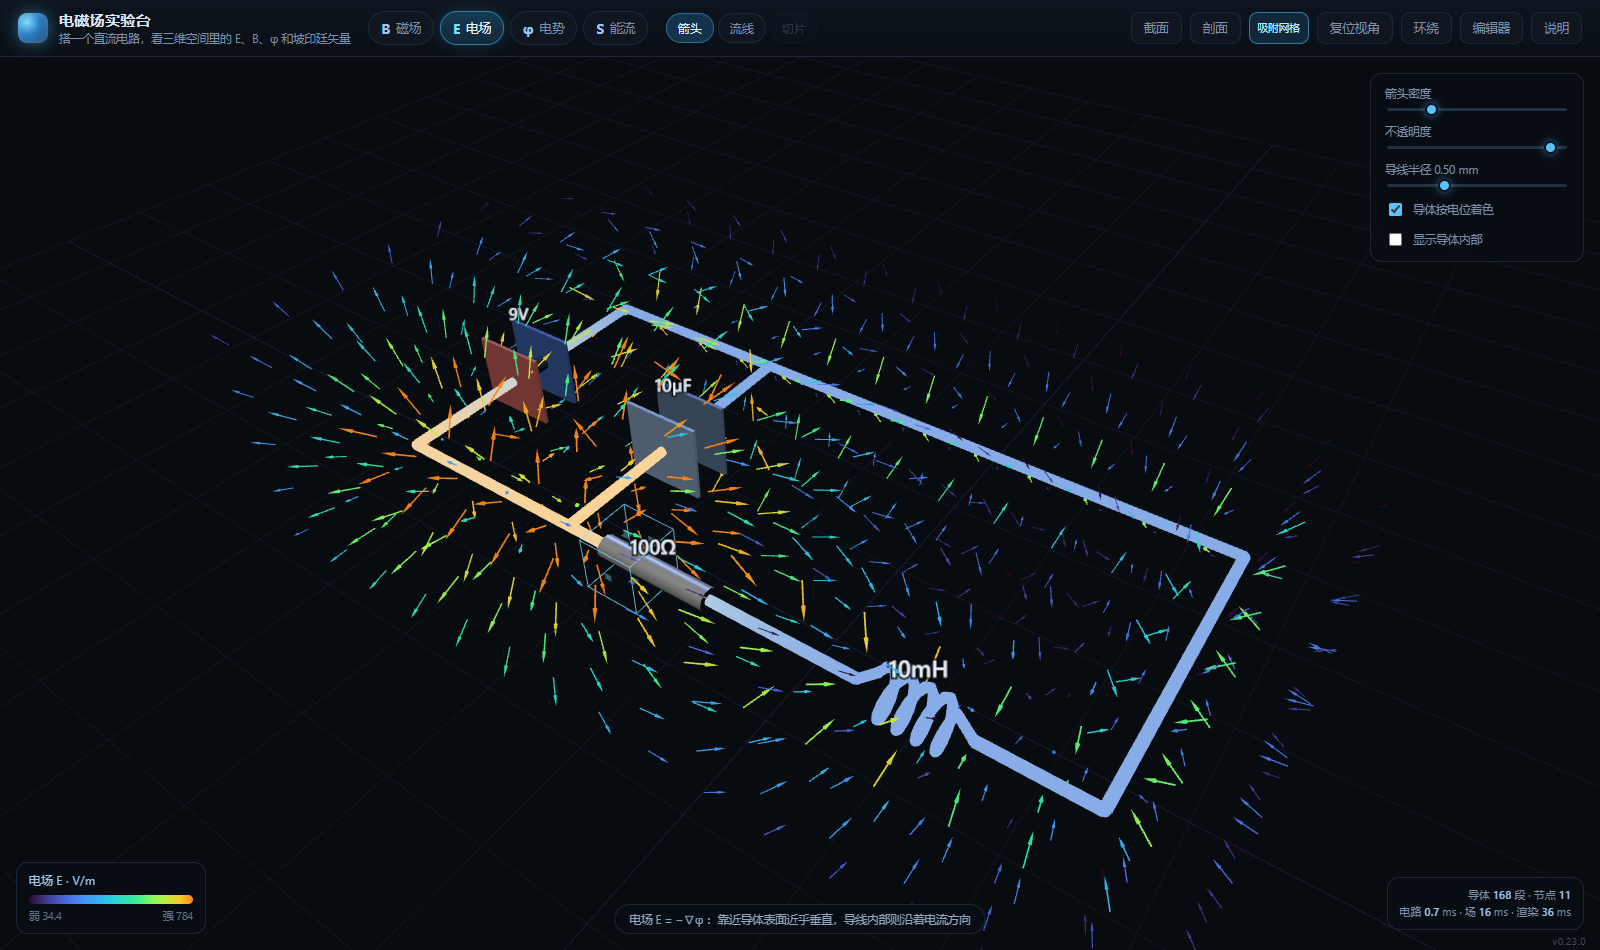
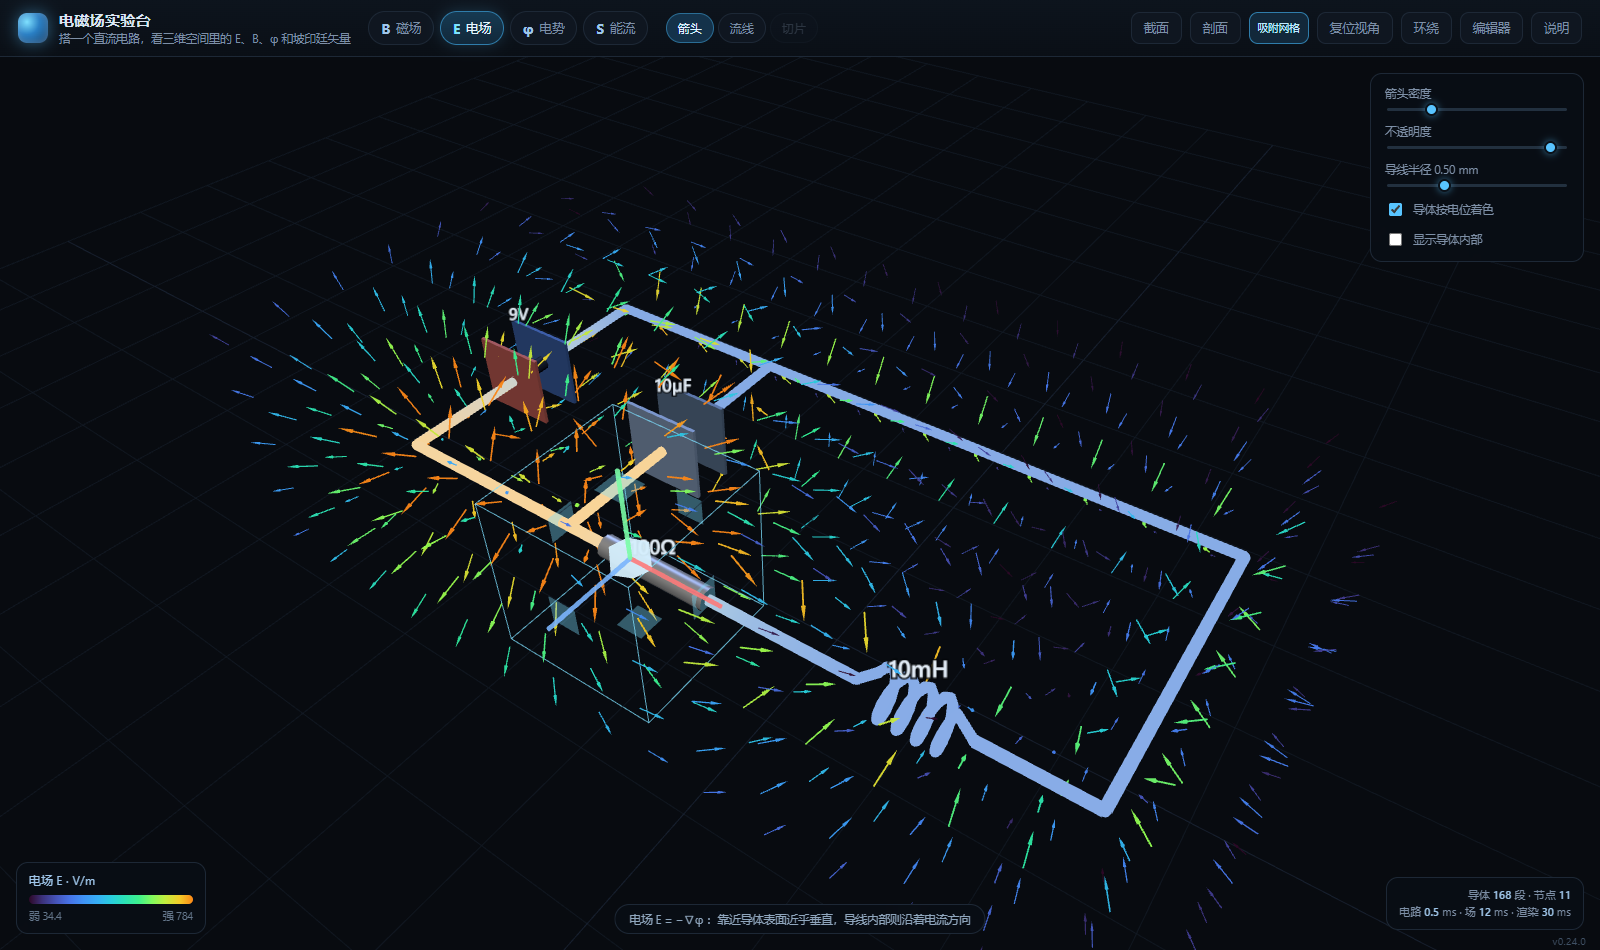
fix: 截取空间流线消失（步长/种子半径没跟盒子缩放）；电阻半径突变导致能流聚成一束；补「开发教训」文档（v0.24.0）
- viz: 积分步长改成随范围缩放（spanMin/60，限 0.003~0.075）。
  吸附后盒子只有半格多，固定 0.075 的步长只能走四五步，被 length<8 全过滤掉
- viz: 种子半径上限从 spanMin*0.42 收到 *0.22，别让种子贴着盒边、一生成就出界
- slicepane: 默认吸附的盒子从 5.5×半径 放大到 16×半径（下限 0.55 格），
  太小的话连一根导线的场结构都装不下
- slicepane/app: 体块里没有导体时在标题栏提示（拖开导线后内部箭头当然看不到）
- circuit: 电阻半径从 t=0.2/0.8 处的突跳改成 12% 长度的平滑渐变。
  突跳等于在模型里加了个尖角，能流线会聚成一束（就是「都指向电阻一端」的那张图）
- README: 新增「开发教训」一节，记录五类反复踩过的错误
- 版本 0.24.0，文档与截图更新

Changed region(s): [[0.3438, 0.4884, 0.4688, 0.6716]]

diff --git a/js/viz.js b/js/viz.js
@@ -386,6 +386,7 @@ export class FieldViz {
       box.max[0] - box.min[0], box.max[1] - box.min[1], box.max[2] - box.min[2]
     );
     const sep0 = Math.max(0.008, spanMin / (16 + density * 54));
+    const stepH = Math.max(0.003, Math.min(0.075, spanMin / 60));
     let candidates = this.makeSeeds(solver, box, Math.round(nLines * 8), field, sep0);
     if (o.interior && field !== 'phi') {
       candidates = candidates.concat(this.makeInteriorSeeds(solver, box, Math.round(nLines * 0.35)));
@@ -440,10 +441,11 @@ export class FieldViz {
 
       // 导体外面的场线不穿进导体；导体内部的场线本来就在里面，所以不设终止条件，
       // 步长也要按导体尺度缩小（导线只有 0.5mm，用 0.075 格的步长直接跨出去了）
-      // 步数上限压下来：原来一条线能跨 20 多格，横穿整个场景显乱
+      // 步长必须跟采样范围走：截取空间吸附导线后盒子只有半格多，
+      // 用 0.075 的步长一条线只走四五步就出界，会被下面的 length 判定全过滤掉
       const line = inside
         ? integrate(fn, seed, box, (sd.h || 0.004), 600, null)
-        : integrate(fn, seed, box, 0.075, field === 'E' ? 260 : 190, solver);
+        : integrate(fn, seed, box, stepH, field === 'E' ? 260 : 190, solver);
       if (line.length < (inside ? 5 : 8)) continue;
 
       // 再看整条线：如果大半程都贴着已有线，就丢掉（只靠种子点判不够）
@@ -615,7 +617,8 @@ export class FieldViz {
       box.max[1] - box.min[1],
       box.max[2] - box.min[2]
     );
-    const rMax = Math.max(0.008, Math.min(1.05, spanMin * 0.42));
+    // 种子半径不能贴着盒子边缘：那样线一生成就出界，只剩一小段
+    const rMax = Math.max(0.008, Math.min(1.05, spanMin * 0.22));
     const radii = [0.32, 0.58, 0.8, 1.0];
     const seeds = [];
     let guard = 0;

diff --git a/js/slicepane.js b/js/slicepane.js
@@ -218,7 +218,9 @@ export class SlicePane {
       (solver.p0[i3 + 1] + solver.p1[i3 + 1]) / 2,
       (solver.p0[i3 + 2] + solver.p1[i3 + 2]) / 2,
     ];
-    const half = Math.max(0.16, (this.conductorR || 0.0005) * 100 * 5.5);
+    // 默认取景别太小：一两毫米的盒子连一根导线的场结构都装不下，
+    // 流线一生成就出界，看起来就像「坏了」
+    const half = Math.max(0.55, Math.min(2.4, (this.conductorR || 0.0005) * 100 * 16));
     this.box.sx = this.box.sy = this.box.sz = half;
     this.box.cx = mid[0] * 100 - this.base[0];
     this.box.cy = mid[1] * 100 - this.base[1];
@@ -249,6 +251,21 @@ export class SlicePane {
       min: [box.min[0] - pad[0], box.min[1] - pad[1], box.min[2] - pad[2]],
       max: [box.max[0] + pad[0], box.max[1] + pad[1], box.max[2] + pad[2]],
     };
+    // 体块里一个导体都没有时，内部箭头当然看不到——提示一下
+    this._hasConductor = (() => {
+      const box = this.worldBox;
+      for (let k = 0; k < this.solver.n; k++) {
+        const i3 = 3 * k;
+        for (let e = 0; e < 2; e++) {
+          const x = (e ? this.solver.p1[i3] : this.solver.p0[i3]) * 100;
+          const y = (e ? this.solver.p1[i3 + 1] : this.solver.p0[i3 + 1]) * 100;
+          const z = (e ? this.solver.p1[i3 + 2] : this.solver.p0[i3 + 2]) * 100;
+          if (x >= box.min[0] && x <= box.max[0] && y >= box.min[1] && y <= box.max[1] &&
+              z >= box.min[2] && z <= box.max[2]) return true;
+        }
+      }
+      return false;
+    })();
     this.viz.update({
       solver: this.solver,
       bounds: this.bounds,

diff --git a/js/circuit.js b/js/circuit.js
@@ -343,7 +343,19 @@ export function buildScene(circuit, solution, opts = {}) {
       case 'resistor': {
         // 本体画成半径 0.11 的壳，所以中间那段的「导体半径」也要跟着变，
         // 否则场线会从壳里穿过去
-        addPath([A, B], Va, Vb, { radius: (t) => (t > 0.2 && t < 0.8 ? 0.11 : wireRadius) });
+        // 半径要平滑过渡：原来在 t=0.2/0.8 处从 1.1mm 突跳到 0.5mm，
+        // 这等于在模型里加了一个「尖角」，场线会在那里聚成一束（看起来像能流
+        // 都涌向电阻某一端）。用一段渐变把台阶抹掉。
+        const BODY_R = 0.11, LEAD_R = wireRadius, T0 = 0.2, T1 = 0.8, FADE = 0.12;
+        addPath([A, B], Va, Vb, {
+          radius: (t) => {
+            const sm = (x) => (x <= 0 ? 0 : x >= 1 ? 1 : x * x * (3 - 2 * x));
+            let f = 1;                       // 1 = 本体半径，0 = 引线半径
+            if (t < T0) f = sm((t - (T0 - FADE)) / FADE);
+            else if (t > T1) f = sm(((T1 + FADE) - t) / FADE);
+            return LEAD_R + (BODY_R - LEAD_R) * f;
+          },
+        });
         const bodyA = V3.add(A, V3.mul(axis, L * 0.22));
         const bodyB = V3.add(A, V3.mul(axis, L * 0.78));
         parts.push({ kind: 'tube', pts: [A, bodyA], radius: wireRadius, mat: 'copper' });

diff --git a/js/app.js b/js/app.js
@@ -171,7 +171,10 @@ function updatePane() {
     slicePos: state.slicePos,
   });
   const info = FIELD_INFO[state.field];
-  $('sp-sub').textContent = `${info.label} · ${MODE_LABEL[state.mode]} · 体块内加密采样`;
+  const inBox = slicePane._hasConductor !== false;
+  $('sp-sub').textContent = inBox
+    ? `${info.label} · ${MODE_LABEL[state.mode]} · 体块内加密采样`
+    : `${info.label} · ${MODE_LABEL[state.mode]} · 体块里没有导体`;
 }
 
 function updateViz() {

diff --git a/js/version.js b/js/version.js
@@ -2,5 +2,5 @@
  * version.js —— 版本号的唯一来源
  * BUILD 由 tools/build_single.py 在打包时写入 git 短哈希。
  */
-export const VERSION = '0.23.0';
+export const VERSION = '0.24.0';
 export const BUILD = null;

diff --git a/README.md b/README.md
@@ -320,6 +320,71 @@ em-field-lab/
 - 内部**流线**用更小的步长积分（导线只有 0.5 mm，正常步长一步就跨出去了），
   并且不设「碰到导体就停」的条件——它本来就在导体里
 
+## 开发教训（踩过的坑，别再踩）
+
+这一节记录实际踩过、而且反复踩过的错误。写下来是因为其中好几类都重复犯了不止一次。
+
+### 一、「数据对了」不等于「看得见」
+
+最容易骗过自检的一类 bug：逻辑层完全正确，但用户看到的那个对象没跟着变。
+
+- **锁不生效**：`setWorldBox()` 确实遵守了锁定，自检也过了。但三维里的框是 `BoxGizmo`
+  自己维护的，拖动时它先改自己的几何、再回调——切片区被锁住不动，框却照样被拖走。
+  修法是回调里把框 `setBox(slicePane.worldBox)` 回弹。
+- **内部箭头不显示（第一处）**：`SlicePane.update()` 的解构参数表里没有 `interior`，
+  app 传进来的值被静默丢弃。跨模块传参一定要**两端对齐**着看。
+- **内部箭头不显示（第二处）**：`setCircuit()` 每次重建都会新建材质，
+  启动时设的半透明（ghost）随之丢失。凡是「在重建之后还要生效的状态」，都要在重建后重新应用一次。
+
+> 教训：自检要断言**用户能看见的那个对象**（框的位置、材质的透明度、网格数量），
+> 而不只是数据层的中间变量。
+
+### 二、绝对阈值 vs 相对尺度
+
+同一个错误犯了三次，都是「写死的绝对值在另一种尺度下不成立」：
+
+| 位置 | 写死的值 | 在小体块里的后果 |
+|---|---|---|
+| 箭头采样剔除 | 离导体 4 mm | 盒子只有 2 mm 时**所有**点都被滤掉 |
+| 流线撒点半径 | 0.22–1.05 格 | 种子全落在盒外，只剩几条 |
+| 流线积分步长 | 0.075 格 | 一条线只走四五步就出界，被 `length < 8` 全过滤 |
+
+> 教训：凡是和空间有关的阈值，都要**跟着采样范围或导体半径缩放**，
+> 并且在小尺度下单独验一遍。
+
+### 三、渲染层的「隐形」
+
+- **管子内外翻转**：`tubeGeometry` 的三角面缠绕方向反了，16 个面全部朝内，
+  外表面被背面剔除——电阻外壳朝镜头的那一面是空的。用一个「法向是否朝外」的数值检查
+  才能发现，肉眼看只是「少了一块」。
+- **InstancedMesh 被整体剔除**：实例散布在整个场景，但几何体的包围球在原点。
+  相机一离开原点，整块网格判定为不可见 → 面板里一个都不画。必须 `frustumCulled = false`。
+- **共面 z-fighting**：3D 窗口的箭头和贴图平面完全共面，直接被吃掉。
+  把箭头层沿法向抬 2% 即可。
+- **同色隐身**：箭头用和贴图相同的色标，画在同色背景上等于隐形。加一层放大的深色描边。
+- **`.hidden` 压不过更高优先级的选择器**：`.sw-canvas canvas { display:block }` 的
+  specificity 比 `.hidden` 高，二维画布根本藏不住。
+
+> 教训：看不见东西时，先分清是「没生成」「被剔除」「被遮挡」还是「看不见轮廓」，
+> 这四种原因的排查手法完全不同。
+
+### 四、尺度的物理一致性
+
+- 物理模型用 0.2 mm 细线，画面画 0.5–1.1 mm——两套尺度导致场线从元件里**穿过去**。
+  现在每段导体带自己的绘制半径。
+- 电阻本体的半径在 `t=0.2/0.8` 处从 1.1 mm **突跳**到 0.5 mm，等于在模型里加了一个尖角，
+  能流线会在那里聚成一束。改成平滑渐变。
+- 近场截断半径曾用 `√(a·L)`（0.84 mm），比画出来的导线（0.5 mm）还粗，
+  于是在表面**外面**凭空多出一个台阶；正确的截断应落在 `ρ = a`。
+
+### 五、版本控制与可复现
+
+- 随机撒点的时候，每次改代码后截图都在变，根本分不清「是改动生效了」还是「随机波动」。
+  流线从一开始就应该是**确定性**的。
+- 每一版都要存截图 + 版本号；单文件构建里注入 `git rev-parse --short HEAD`，
+  这样用户反馈问题时能对上是哪一版。
+- 过程截图写进 `.gitignore`（根目录 `/*.png`），`docs/` 里的正式截图才入库。
+
 ## 已知限制
 
 - **只有直流稳态**。交流 / 瞬态没做，所以电感只当短路、电容只当开路。
